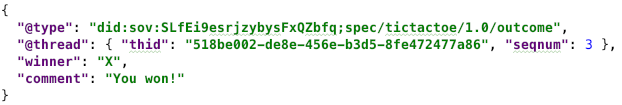
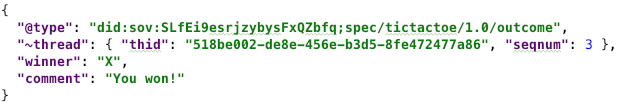
Change erroneous @thread to ~thread

Changed region(s): [[0.0307, 0.2, 1.0, 0.6571], [0.0307, 0.6571, 0.3069, 0.8], [0.0, 0.8286, 0.0307, 0.9714]]

diff --git a/features/0031-discover-features/README.md b/features/0031-discover-features/README.md
@@ -48,7 +48,14 @@ predefined state machines for any `requester` and `responder`:
 
 A `discover-features/query` message looks like this:
 
-[![sample query](query.png)](query.json)
+```json
+{
+  "@type": "did:sov:BzCbsNYhMrjHiqZDTUASHg;spec/discover-features/1.0/query",
+  "@id": "yWd8wfYzhmuXX3hmLNaV5bVbAjbWaU",
+  "query": "did:sov:BzCbsNYhMrjHiqZDTUASHg;spec/tictactoe/1.*",
+  "comment": "I'm wondering if we can play tic-tac-toe..."
+}
+```
 
 Query messages say, "Please tell me what your capabilities are with
 respect to the protocols that match this string." This particular example
@@ -71,7 +78,18 @@ exchanged with a stranger.
 
 A `discover-features/disclose` message looks like this:
 
-[![sample disclose](disclose.png)](disclose.json)
+```json
+{
+  "@type": "did:sov:BzCbsNYhMrjHiqZDTUASHg;spec/discover-features/1.0/disclose",
+  "~thread": { "thid": "yWd8wfYzhmuXX3hmLNaV5bVbAjbWaU" },
+  "protocols": [
+    {
+      "pid": "did:sov:BzCbsNYhMrjHiqZDTUASHg;spec/tictactoe/1.0",
+      "roles": ["player"]
+    }
+  ]
+}
+```
 
 The `protocols` field is a JSON array of __protocol support descriptor__
 objects that match the query. Each descriptor has a `pid` that contains
@@ -88,7 +106,15 @@ your query, and some things I can do with each one."
 Responses do not have to contain exhaustive detail. For example, the following
 response is probably just as good:
 
-[![simpler response](simpler-response.png)](simpler-response.json)
+```json
+{
+  "@type": "did:sov:BzCbsNYhMrjHiqZDTUASHg;spec/discover-features/1.0/disclose",
+  "~thread": { "thid": "yWd8wfYzhmuXX3hmLNaV5bVbAjbWaU" },
+  "protocols": [
+    {"pid": "did:sov:BzCbsNYhMrjHiqZDTUASHg;spec/tictactoe/1.0"}
+  ]
+}
+```
 
 The reason why less detail probably suffices is that agents do not need to
 know everything about one another's implementations in order to start an
@@ -173,21 +199,36 @@ the content of this field as an explanation of the request.
 All message types in this family thus have the following implicit
 decorator:
 
-[![message family ~l10n decorator](protocol-discovery~l10n.png)](protocol-discovery~l10n.json)
+```json
+{
+
+  "~l10n": {
+    "locales": { "en": ["comment"] },
+    "catalogs": ["https://github.com/hyperledger/aries-rfcs/blob/a9ad499/features/0031-discover-features/catalog.json"]
+  }
+
+}
+```
 
 ### Message Catalog
 
 As shown in the above `~l10n` decorator, all agents using this protocol have
 [a simple message catalog](catalog.json) in scope. This allows agents to
 send [`problem-report`s](
-https://github.com/hyperledger/indy-hipe/blob/6a5e4fe2/text/error-handling/README.md#the-problem-report-message-type
+../0035-report-problem/README.md#the-problem-report-message-type
 ) to complain about something related to `discover-features` issues.
-The catalog looks like this:
+The catalog looks like this (see [catalog.json](catalog.json)):
 
-[![error catalog for discover-features protocol](catalog.png)](catalog.json)
+```json
+{
+  "query-too-intrusive": {
+    "en": "Protocol query asked me to reveal too much information."
+  }
+}
 
-For more information, see the [localization
-RFC](https://github.com/hyperledger/indy-hipe/blob/569357c6/text/localized-messages/README.md).
+```
+
+For more information, see the [localization RFC](../0043/l10n/README.md).
 
 ## Unresolved questions
 

diff --git a/features/0124-did-resolution-protocol/README.md b/features/0124-did-resolution-protocol/README.md
@@ -123,7 +123,7 @@ It looks like this:
 
 	{
 		"@type": "did:sov:BzCbsNYhMrjHiqZDTUASHg;spec/did_resolution/0.1/resolve_result",
-		"@thread": { "thid": "xhqMoTXfqhvAgtYxUSfaxbSiqWke9t" },
+		"~thread": { "thid": "xhqMoTXfqhvAgtYxUSfaxbSiqWke9t" },
 		"did_document": {
 			"@context": "https://w3id.org/did/v0.11",
 			"id": "did:sov:WRfXPg8dantKVubE3HX8pw",
@@ -146,7 +146,7 @@ which includes a DID Document plus additional metadata:
 
 	{
 		"@type": "did:sov:BzCbsNYhMrjHiqZDTUASHg;spec/did_resolution/0.1/resolve_result",
-		"@thread": { "thid": "xhqMoTXfqhvAgtYxUSfaxbSiqWke9t" },
+		"~thread": { "thid": "xhqMoTXfqhvAgtYxUSfaxbSiqWke9t" },
 		"did_document": {
 			"@context": "https://w3id.org/did/v0.11",
 			"id": "did:sov:WRfXPg8dantKVubE3HX8pw",

diff --git a/concepts/0011-decorators/README.md b/concepts/0011-decorators/README.md
@@ -179,7 +179,7 @@ targets:
   understood as overriding or enriching the semantics of that same decorator on the
   parent message family, since the scope is becoming more specific.
 * [**Message Thread**](http://bit.ly/2SL5kab) **or thread tree**: A participant in a
-  thread could send a message containing nothing but the `@thread` with one or
+  thread could send a message containing nothing but the `~thread` with one or
   more additional decorators *inside* it. This should be viewed as a statement of semantics that
   apply to subsequent communications from the sender, on that thread, until further
   notice or until overridden at the scope of an individual message instance. (While

diff --git a/features/0044-didcomm-file-and-mime-types/README.md b/features/0044-didcomm-file-and-mime-types/README.md
@@ -112,7 +112,7 @@ that expects JSON.
 
 However, all such files have some additional conventions, over and above the simple
 requirements of JSON. For example, key decorators have special meaning (
-[`@id`, `@thread`](../../concepts/0008-message-id-and-threading/README.md),
+[`@id`, `~thread`](../../concepts/0008-message-id-and-threading/README.md),
 [`@trace`](../0034-message-tracing/README.md)
 , etc). Nonces may be especially significant. The format of particular values
 such as DID and DID+key references is important. Therefore, we refer to these messages

diff --git a/features/0048-trust-ping/README.md b/features/0048-trust-ping/README.md
@@ -88,7 +88,7 @@ is not `false`, the receiver should reply as quickly as possible with a
 {
   "@type": "did:sov:BzCbsNYhMrjHiqZDTUASHg;spec/trust_ping/1.0/ping_response",
   "@id": "e002518b-456e-b3d5-de8e-7a86fe472847",
-  "@thread": { "thid": "518be002-de8e-456e-b3d5-8fe472477a86" },
+  "~thread": { "thid": "518be002-de8e-456e-b3d5-8fe472477a86" },
   "~timing": { "in_time": "2018-12-15 04:29:28Z", "out_time": "2018-12-15 04:31:00Z"},
   "comment": "Hi yourself. I'm here."
 }

diff --git a/features/0030-sync-connection/abandon-connection-protocol/README.md b/features/0030-sync-connection/abandon-connection-protocol/README.md
@@ -79,6 +79,6 @@ The [`ack` message](../../0015-acks/README.md#explicit-acks) is [adopted](
 ```json
 {
 "@type": "did:sov:BzCbsNYhMrjHiqZDTUASHg;spec/abandon_connection/1.0/ack",
-"@thread": { "thid": "c17147d2-ada6-4d3c-a489-dc1e1bf778ab" }
+"~thread": { "thid": "c17147d2-ada6-4d3c-a489-dc1e1bf778ab" }
 }
 ```
